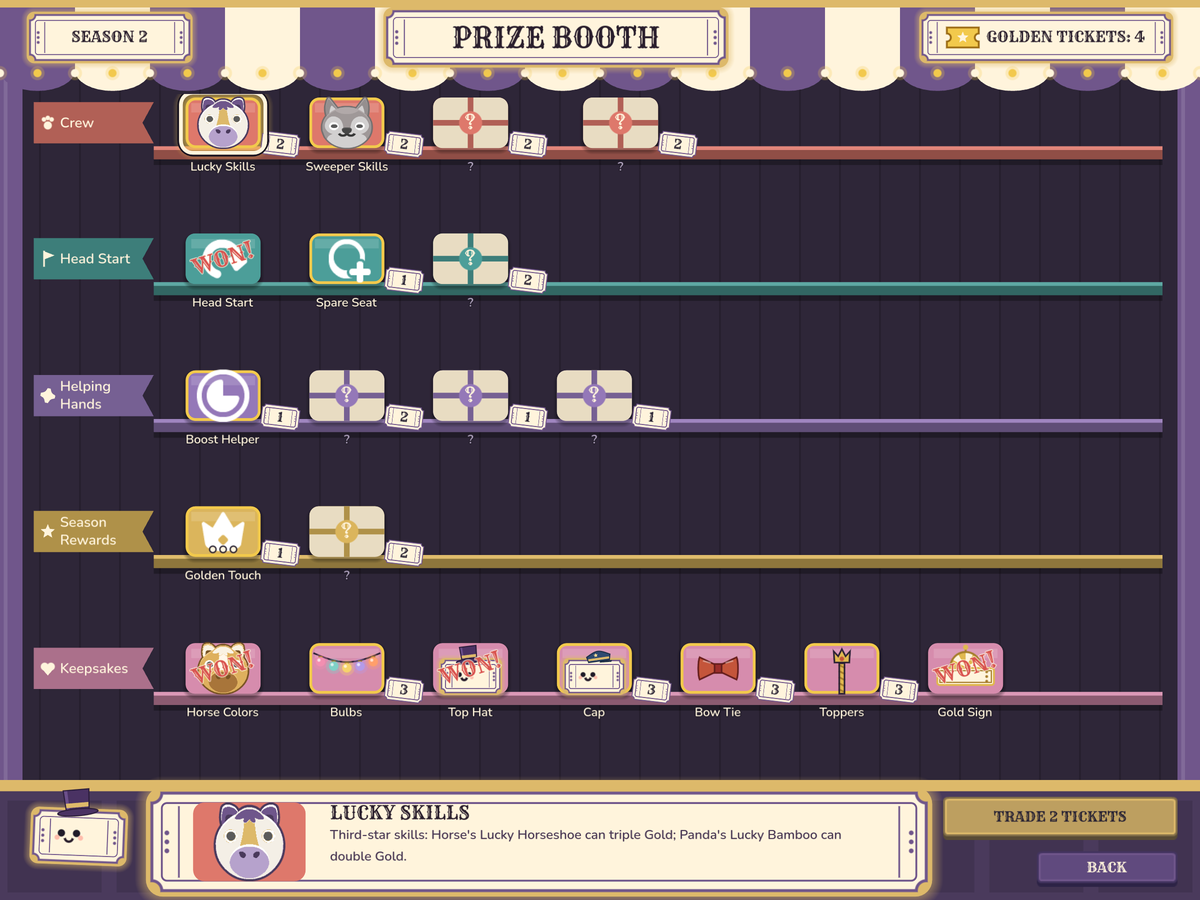
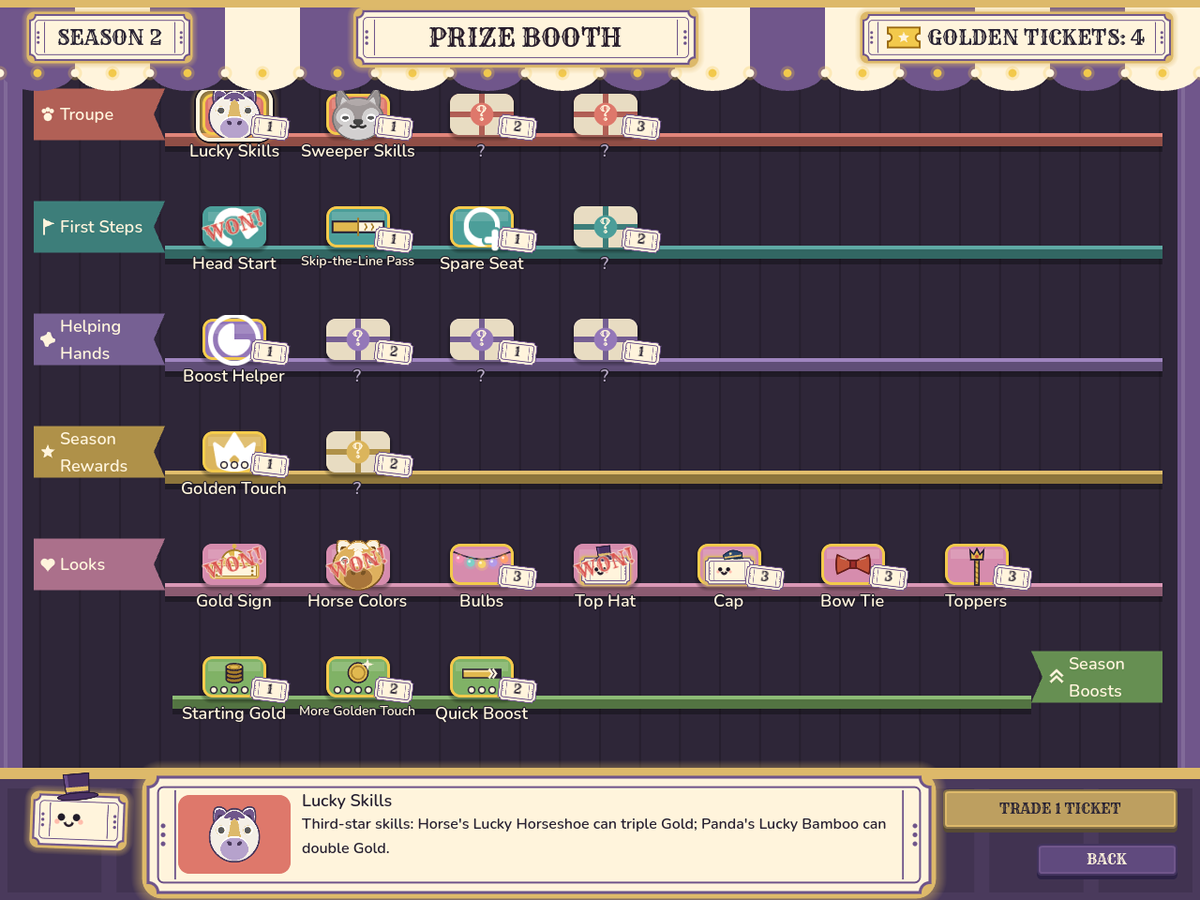
Today's screenshots: the six feature images re-rendered on the current game
The roster at work, the Overflowing Bin fight, the restored park with the Ferris wheel and
teacups, the Prize Booth with its Season Boosts row, the Crowd ladder (Quiet Day to Sold Out),
desktop mode. The park and Challenges cards say what they do now.

diff --git a/index.html b/index.html
@@ -66,32 +66,32 @@
 
     <section class="features">
       <article class="feature">
-        <img src="images/work.png" width="1200" height="900" loading="lazy" alt="The carousel from above with a Wolf, Giraffe, Sloth, Elephant, Panda and Horse on it, each sweeping a faint colored trail.">
+        <img src="images/work.png" width="1200" height="900" loading="lazy" alt="The carousel from above with its troupe of animal mounts, each sweeping a faint colored trail, clutter coming in on every side and the shop's Mounts tab open.">
         <h2>Your carousel does the work</h2>
         <p>Early on you're clicking clutter away. Then a Wolf sweeps, a Giraffe reaches far out, a Sloth slows clutter down, an Elephant swats whatever gets close, and a Panda patches things up. Soon they're clearing the park without you.</p>
       </article>
       <article class="feature">
-        <img src="images/bosses.png" width="1200" height="900" loading="lazy" alt="A boss fight: the Overflowing Bin with its lid down and trash spilling out, the carousel glowing red from its hits.">
+        <img src="images/bosses.png" width="1200" height="900" loading="lazy" alt="A boss fight: the Overflowing Bin at the carousel's rim, trash spilling out, the screen glowing red as the ride runs low on health.">
         <h2>Bosses that fight back</h2>
         <p>Six bosses stand between you and a finished season, from a swirling Leaf Storm to an Overflowing Bin. They hit the carousel back, so build it tough before you take them on.</p>
       </article>
       <article class="feature">
-        <img src="images/park.png" width="1200" height="900" loading="lazy" alt="The restored park around the carousel: string lights, flower beds, a fountain, stands and visitors.">
+        <img src="images/park.png" width="1200" height="900" loading="lazy" alt="The restored park around the carousel: string lights, flower beds, a fountain, a Ferris wheel, teacups, stands and visitors.">
         <h2>Restore the park</h2>
-        <p>Every season earns Park Supplies. Spend them to bring the old park back: string lights, flower beds, a fountain, a balloon seller and more stands, one by one.</p>
+        <p>Every season earns Park Supplies. Spend them to bring the old park back: string lights, flower beds, a fountain, a Ferris wheel, the teacups and more, one by one.</p>
       </article>
       <article class="feature">
-        <img src="images/seasons.png" width="1200" height="900" loading="lazy" alt="The Prize Booth: shelves of prizes to buy with Golden Tickets, from new troupe skills to keepsakes, one of them described at the bottom.">
+        <img src="images/seasons.png" width="1200" height="900" loading="lazy" alt="The Prize Booth: shelves of prizes to buy with Golden Tickets, from troupe skills and new looks to Season Boosts, Stub describing one at the bottom.">
         <h2>Seasons and prizes</h2>
-        <p>Stamp every boss on your Season Ticket, then start a new season with Golden Tickets to spend at the Prize Booth. Stub, a very excited ticket, shows you around.</p>
+        <p>Stamp every boss on your Season Ticket, then start a new season with Golden Tickets to spend at the Prize Booth: troupe skills, new looks and Season Boosts. Stub, a very excited ticket, shows you around.</p>
       </article>
       <article class="feature">
-        <img src="images/challenges.png" width="1200" height="900" loading="lazy" alt="The Challenges screen: three challenges picked for Crowd 7, which pays three times the Golden Tickets.">
+        <img src="images/challenges.png" width="1200" height="900" loading="lazy" alt="The Challenges screen: how busy the park is, from a Quiet Day to Sold Out, each step with its Crowd, its rules and the Golden Tickets it pays.">
         <h2>Challenges and the Crowd</h2>
-        <p>Want it harder? Pick challenges for a season, like tougher bosses or a tighter budget. Every one draws a bigger Crowd, and a bigger Crowd pays more Golden Tickets.</p>
+        <p>Want it harder? Pick how busy the park is, from a Quiet Day to Sold Out. A busier park brings tougher rules, like stronger bosses or a tighter budget, and pays more Golden Tickets.</p>
       </article>
       <article class="feature">
-        <img src="images/desktop.png" width="1200" height="900" loading="lazy" alt="Desktop mode: the carousel in a small round window on a computer desktop.">
+        <img src="images/desktop.png" width="1200" height="900" loading="lazy" alt="Desktop mode: the carousel in a small round window on a computer desktop, a popcorn cart and a balloon seller beside it.">
         <h2>Keep it on your desktop</h2>
         <p>Desktop mode shrinks the game into a little round window you can leave spinning in a corner while you work.</p>
       </article>
